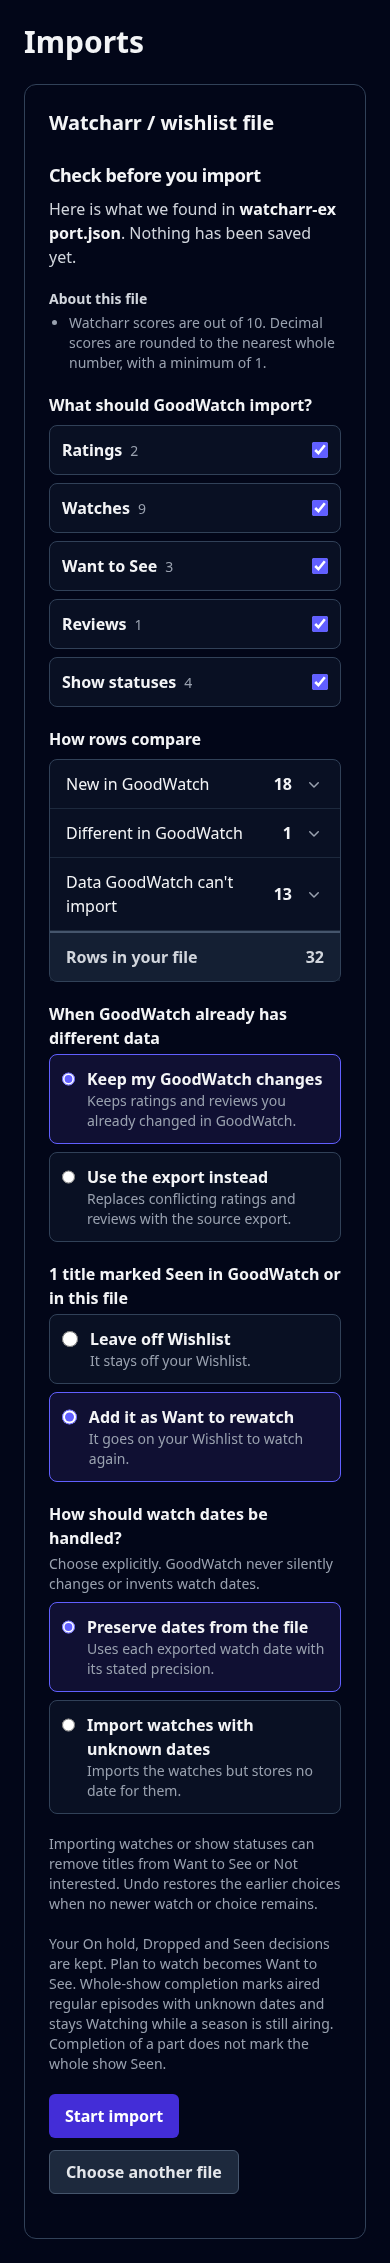
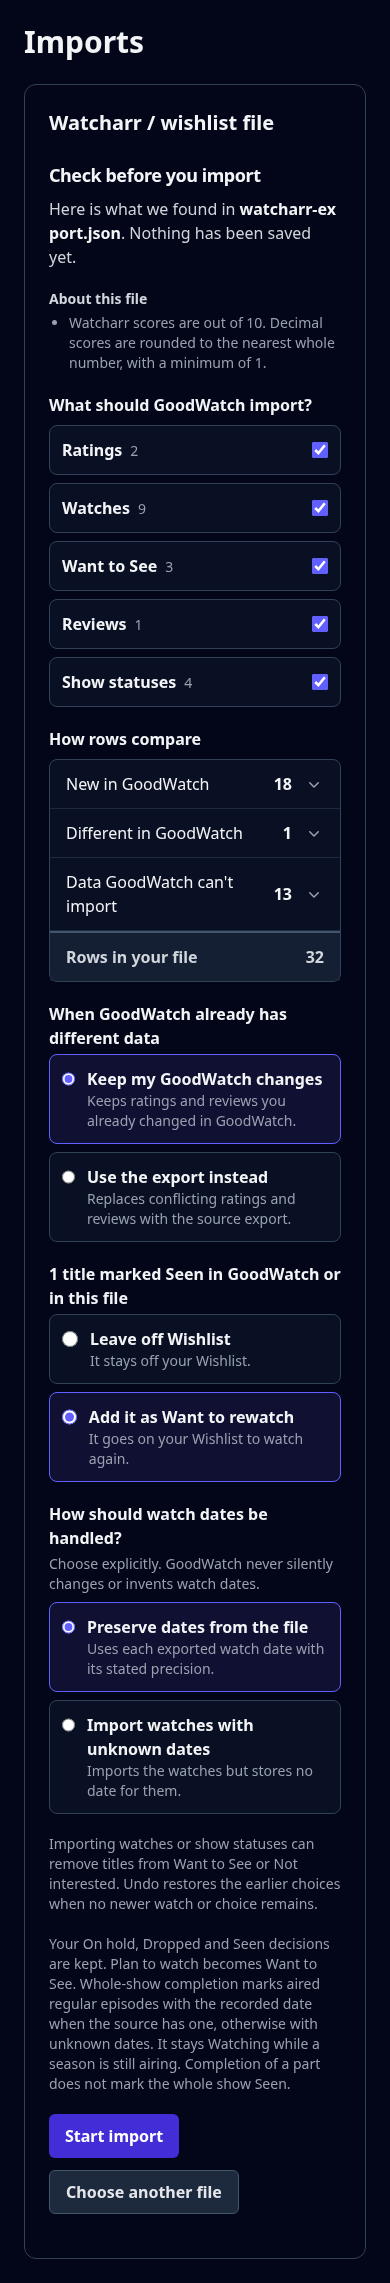
fix(imports): preserve recorded Watcharr completion dates (#756)

diff --git a/goodwatch-webapp/app/server/imports/watcharr-service.server.test.ts b/goodwatch-webapp/app/server/imports/watcharr-service.server.test.ts
@@ -472,7 +472,7 @@ it("Watcharr Undo preserves newer list choices and does not restore intentions o
 	}
 })
 
-it("keeps undated episode evidence ahead of whole-show finishes and chooses the earliest completion independently of activity order", async () => {
+it("prefers dated fillers and chooses the earliest completion independently of activity order", async () => {
 	for (const reverse of [false, true]) {
 		const { tracking } = setup()
 		const source = JSON.parse(fixture.toString()).find(
@@ -511,7 +511,7 @@ it("keeps undated episode evidence ahead of whole-show finishes and chooses the 
 		assert.equal(watches.length, 4)
 		assert.equal(
 			watches.find((w) => w.episode_tmdb_id === 900811)?.watched_at,
-			null,
+			Date.parse("2021-01-01T00:00:00Z"),
 		)
 		assert.ok(
 			watches
@@ -550,4 +550,61 @@ it("Watcharr status-only Undo also preserves a newer opposite list choice", asyn
 	await undoImport("member", preview.id)
 	assert.equal(tracking.table("user_not_interested").length, 0)
 	assert.equal(tracking.table("user_wishlist")[0].updated_at, 2)
+})
+
+it("preserves the recorded whole-show finish date for both episodes when S1E1 has an undated snapshot", async () => {
+	const { db, tracking } = setup()
+	db.episodes = db.episodes.filter(
+		(episode) => episode.show_id !== 9008 || episode.season_number === 1,
+	)
+	tracking.table("episode").splice(0)
+	tracking.seed("episode", db.episodes)
+	const source = JSON.parse(fixture.toString()).find(
+		(row: { id: number }) => row.id === 8,
+	)
+	source.activity = [
+		{
+			id: 800,
+			type: "STATUS_CHANGED",
+			data: "FINISHED",
+			countAsPlay: true,
+			customDate: "2020-02-01T00:00:00Z",
+		},
+	]
+	source.watchedEpisodes = [
+		{ id: 1, seasonNumber: 1, episodeNumber: 1, status: "FINISHED", rating: 0 },
+	]
+	const preview = await previewImport(
+		"member",
+		"wishlist",
+		"watcharr-export.json",
+		new TextEncoder().encode(JSON.stringify([source])),
+	)
+	const rows = await getImportItems("member", preview.id, undefined, 0, 200)
+	assert.deepEqual(
+		rows.items
+			.filter((row) => row.kind === "watch")
+			.map((row) => [row.episodeTmdbId, row.watchedAt])
+			.sort(),
+		[
+			[900811, "2020-02-01T00:00:00Z"],
+			[900812, "2020-02-01T00:00:00Z"],
+		],
+	)
+	await confirmImport("member", preview.id, {
+		kinds: ["watch"],
+		conflictChoice: "keep",
+		watchDates: "preserve",
+	})
+	assert.equal((await finished(preview.id)).status, "done")
+	assert.deepEqual(
+		tracking
+			.table("user_watch_log")
+			.map((watch) => [watch.episode_tmdb_id, watch.watched_at])
+			.sort(),
+		[
+			[900811, Date.parse("2020-02-01T00:00:00Z")],
+			[900812, Date.parse("2020-02-01T00:00:00Z")],
+		],
+	)
 })

diff --git a/goodwatch-webapp/app/server/imports/watcharr-preview.server.ts b/goodwatch-webapp/app/server/imports/watcharr-preview.server.ts
@@ -83,15 +83,16 @@ export async function expandWatcharrWatches(
 			)
 			.map(identity),
 	)
-	// Source episode/season evidence takes priority over whole-show completion.
+	// Dated fillers take priority, then the earliest recorded date; scope only breaks date ties.
 	// Multiple whole-show finishes fill once at the earliest recorded date, regardless of file order.
 	const fillers = expanded
 		.filter((row) => row.watcharrSnapshot && !row.problem)
 		.sort(
 			(a, b) =>
-				Number(completions.has(a)) - Number(completions.has(b)) ||
+				Number(!a.watchedAt) - Number(!b.watchedAt) ||
 				(a.watchedAt ? Date.parse(a.watchedAt) : Infinity) -
 					(b.watchedAt ? Date.parse(b.watchedAt) : Infinity) ||
+				Number(completions.has(a)) - Number(completions.has(b)) ||
 				a.key.localeCompare(b.key),
 		)
 	const selected = new Set<ImportObservation>()

diff --git a/goodwatch-webapp/app/ui/imports/SourceImportPreview.tsx b/goodwatch-webapp/app/ui/imports/SourceImportPreview.tsx
@@ -299,8 +299,9 @@ function GeneralImportPreview({
 				<p className="text-sm text-gray-400">
 					Your On hold, Dropped and Seen decisions are kept. Plan to watch
 					becomes Want to See. Whole-show completion marks aired regular
-					episodes with unknown dates and stays Watching while a season is still
-					airing. Completion of a part does not mark the whole show Seen.
+					episodes with the recorded date when the source has one, otherwise
+					with unknown dates. It stays Watching while a season is still airing.
+					Completion of a part does not mark the whole show Seen.
 				</p>
 			)}
 			{unapplied && (

diff --git a/goodwatch-webapp/app/ui/imports/WishlistImport.test.ts b/goodwatch-webapp/app/ui/imports/WishlistImport.test.ts
@@ -841,3 +841,15 @@ test("full Watcharr Confirm sends the independent rewatch opt-in under either co
 		assert.equal(run.sent.watchDates, "preserve")
 	}
 })
+
+test("the Watcharr show-status footnote explains recorded completion dates and the unknown-date fallback", () => {
+	const page = text(rendered.watcharrLibrary)
+	assert.match(
+		page,
+		/Whole-show completion marks aired regular episodes with the recorded date when the source has one, otherwise with unknown dates/,
+	)
+	assert.doesNotMatch(
+		page,
+		/Whole-show completion marks aired regular episodes with unknown dates/,
+	)
+})

diff --git a/docs/implementation/imports/watcharr.md b/docs/implementation/imports/watcharr.md
@@ -49,11 +49,13 @@ copies of one ID, season snapshots, and episode snapshots do not multiply histor
 The existing explicit unknown-date import choice remains available.
 
 A manual whole-show `STATUS_CHANGED` to Finished is completion evidence, not an
-extra watch of every episode. Dated episode history and undated season/episode
-snapshots take priority. Completion fills only episodes with no source or existing
-GoodWatch watch. Multiple whole-show finishes fill once at the earliest recorded
-completion date, independently of activity ordering. This follows the #756 review
-decision and preserves existing per-episode dates.
+extra watch of every episode. Explicit dated episode history and existing GoodWatch
+watches are preserved. Among completion/snapshot fillers, a recorded date takes
+priority over an unknown date, then the earliest date wins, then a snapshot wins
+an equal-date tie with a whole-show completion. Multiple whole-show finishes fill
+an episode once, independently of activity ordering. Thus a show finished on
+2020-02-01 plus an undated S1E1 snapshot gives both S1E1 and S1E2 the recorded
+2020-02-01 finish date. This follows the second #756 review decision.
 
 Watcharr’s [import service](https://github.com/sbondCo/Watcharr/blob/c268fd22c8f248f3cf6ed6c778a9ceca0f91cabf/server/feature/imprt/import.go)
 sets `countAsPlay: false` on the first `IMPORTED_ADDED_WATCHED` because the initial
@@ -104,12 +106,12 @@ and Undo. Rendered UI tests cover the general Watcharr preview and unchanged
 wishlist-only preview. Service tests also cover preserving a whole-show bulk date
 and deliberately importing it with unknown dates. Review regressions cover the real
 Watcharr importer date pair and entry-date fallback, legacy exports without play
-flags, provider-created activity, whole-show completion overlap (including unknown
+flags, provider-created activity, whole-show completion overlap (including date precedence over unknown
 snapshot dates), all four rating-conflict/rewatch combinations, HTTP validation and
 option persistence, and Confirm/Undo of pre-existing Want to See and Not interested
 for movies and shows. Undo tests also protect newer list choices and watches.
 
-The complete imports run passed **577 tests**, with no failures:
+The complete imports run passed **579 tests**, with no failures:
 
 ```sh
 node --test --test-concurrency=4 app/server/imports/*.test.ts app/server/imdb-import/*.test.ts app/ui/imports/*.test.ts
@@ -120,9 +122,15 @@ The tracking writer suite also passed **127 tests**, with one existing movie fir
 Typecheck baseline on the untouched `origin/main` base (`49d846b2`) was **206**
 diagnostics in this environment, including missing auth-conformance dependencies;
 the requested approximate 188–189 was not the observed baseline. After the change:
-**206**, with identical diagnostic lines and none added.
+**206**, with identical diagnostic lines and none added before rebasing.
 
-The Fable review findings on `73dc6b34` are addressed in the follow-up commit.
+The second review fixes are rebased onto `origin/main` at `c1a2b3014`. Its webapp
+tree is identical to the separately checked `284a5579` main snapshot. The current
+baseline and this branch both report **210** identical diagnostic lines. Main added
+three missing `@faststats/web` module diagnostics and one missing `TalkedItem.image`
+in a homepage test fixture; the Watcharr commits add none.
+
+The Fable review findings on `73dc6b34` and `145460d8` are addressed by the follow-up commits. The shared show-status footnote now describes recorded source dates and the unknown-date fallback.
 Live Watcharr/CrateDB integration and re-review remain with the delivery workflow. No push, merge, deployment, or real-member import was performed.
 
 ## Follow-up decisions
